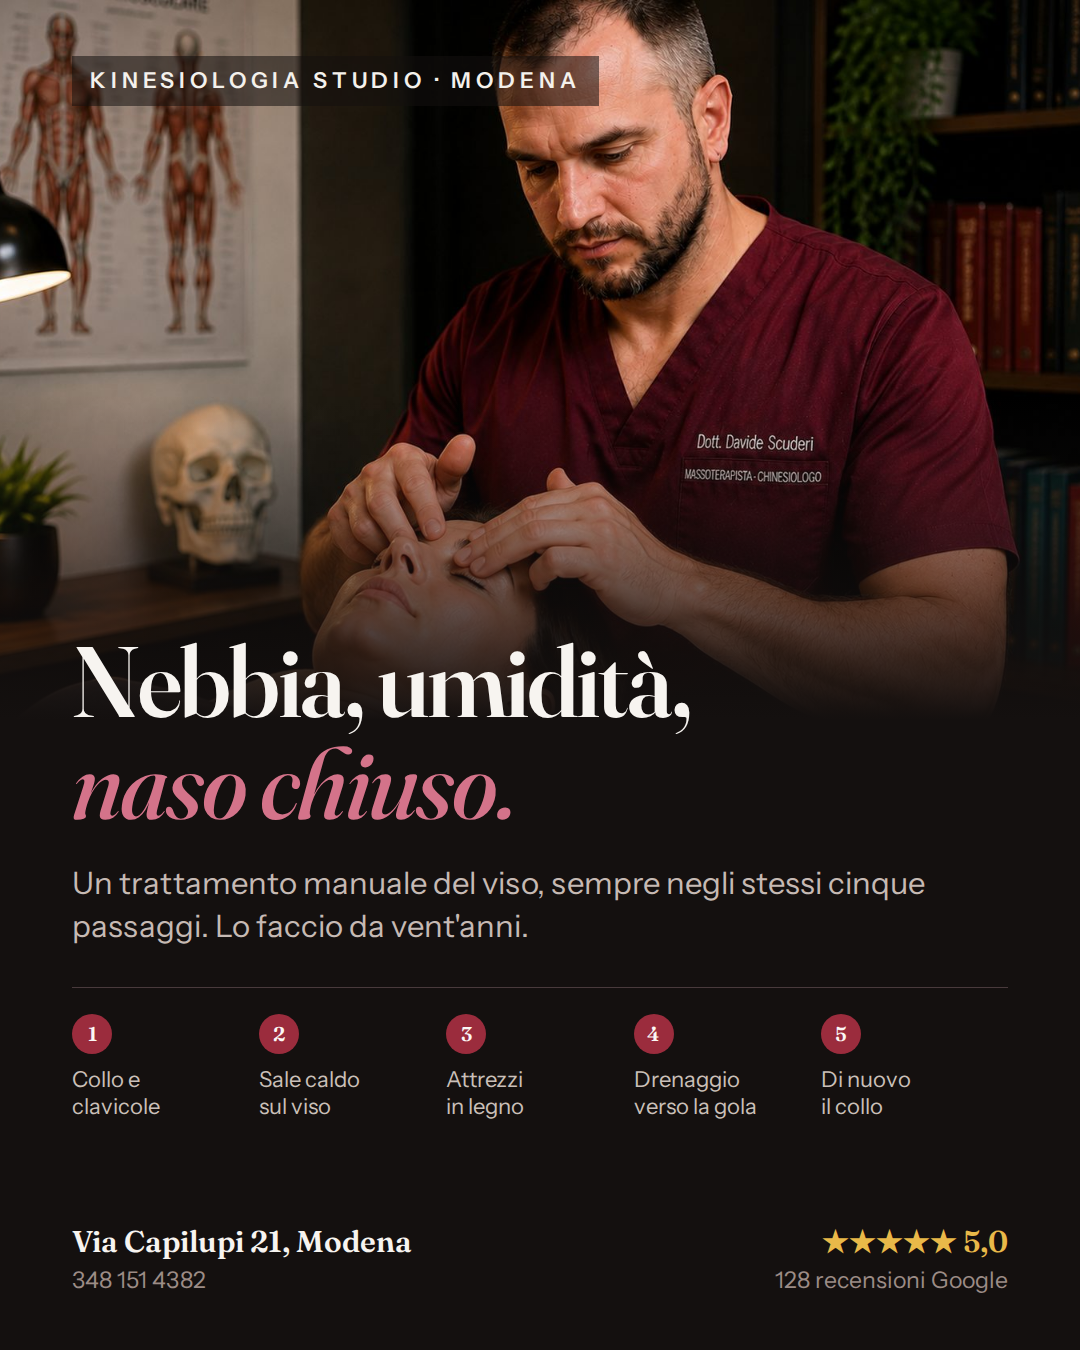
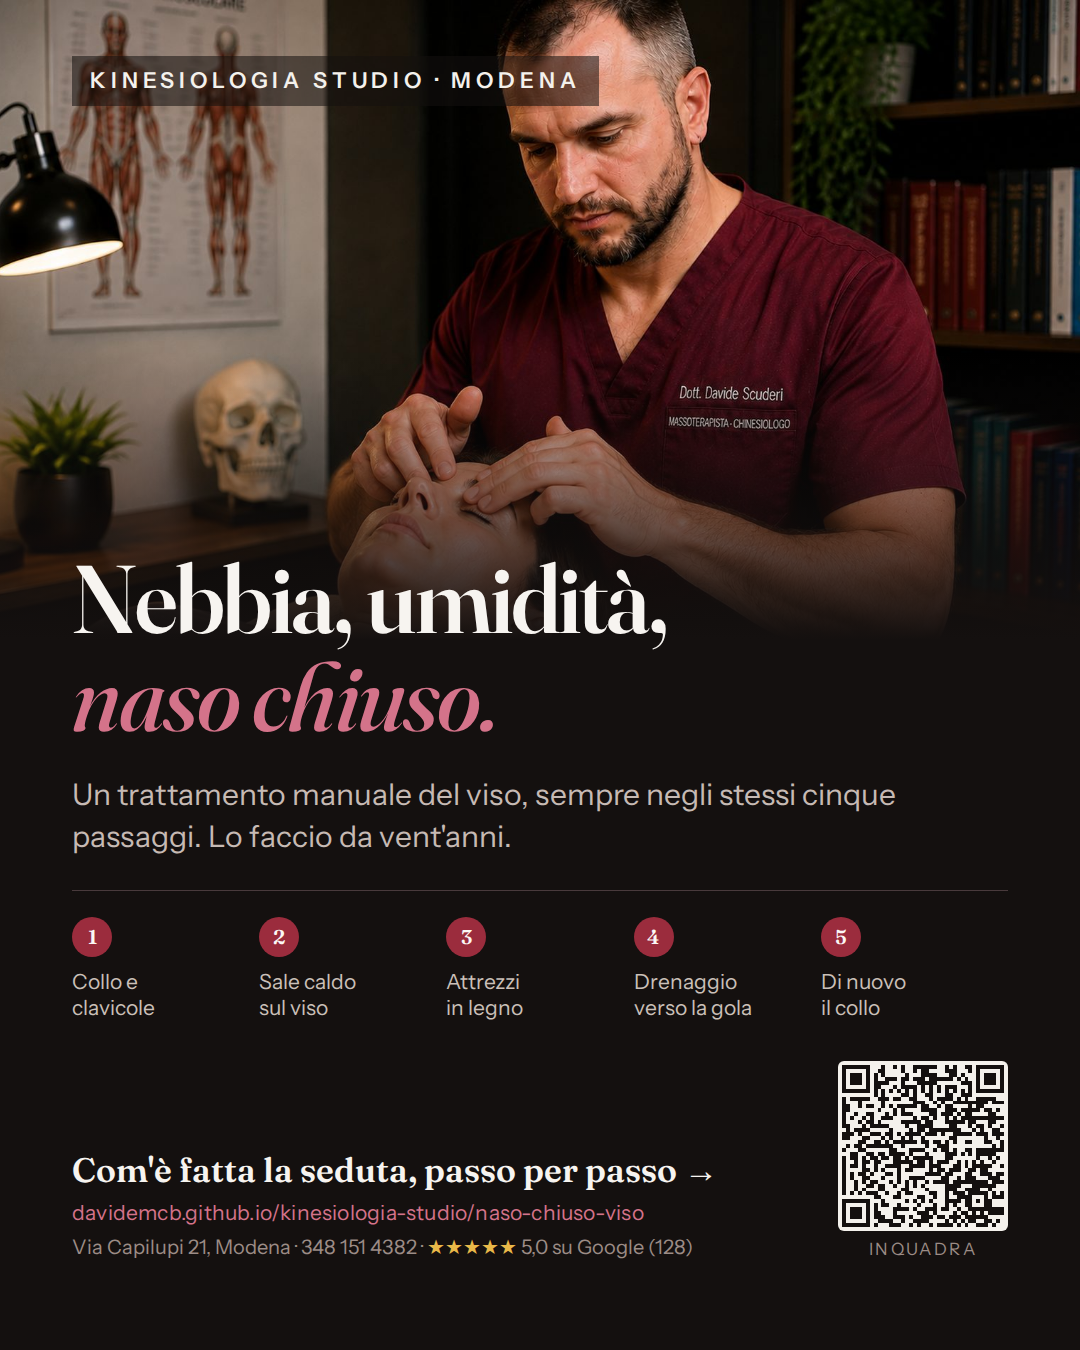
Cartolina: indirizzo della pagina e QR code che porta alla spiegazione
Claude-Session: https://claude.ai/code/session_012t8cSWzJW3CZme42qD1qKQ

diff --git a/pubblicita/cartolina/post.md b/pubblicita/cartolina/post.md
@@ -4,6 +4,9 @@ Immagini:
 - `cartolina-post-4x5.png` → post Facebook e Instagram (formato 4:5)
 - `cartolina-storia-9x16.png` → Storie Facebook e Instagram (aggiungi l'adesivo "Link" nella parte bassa, sopra l'indirizzo)
 
+Tutte e due le cartoline hanno in basso l'indirizzo della pagina e un **QR code** che la apre
+(utile anche se le stampi o le fai girare su WhatsApp).
+
 Link della pagina:
 https://davidemcb.github.io/kinesiologia-studio/naso-chiuso-viso/
 
